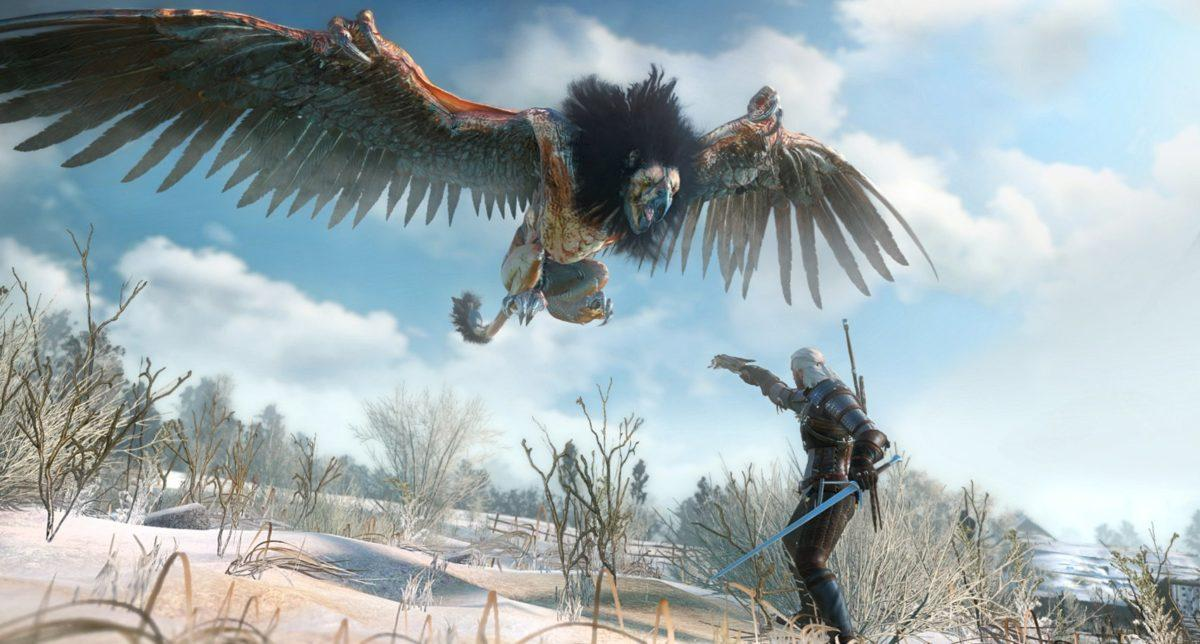
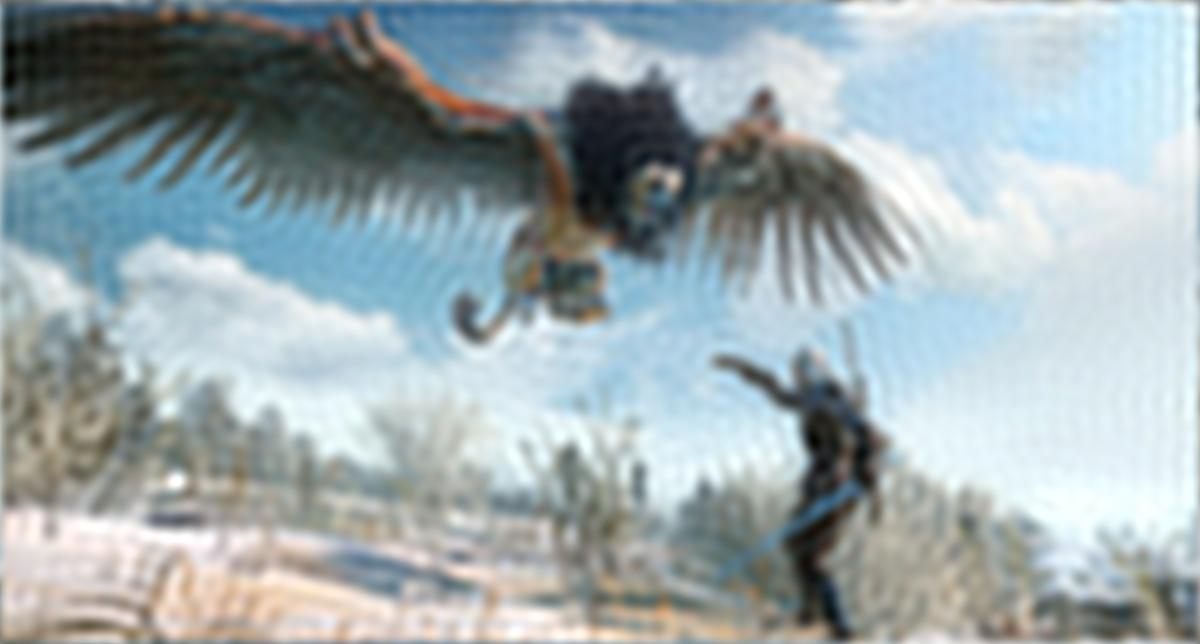
wiener filtration

diff --git a/main.py b/main.py
@@ -1,5 +1,6 @@
 import numpy as np
 from PIL import Image
+import matplotlib.pyplot as plt
 
 
 def main():
@@ -16,8 +17,11 @@ def main():
     green = np.array(green)
     blue = np.array(blue)
 
-    # Params of distortion
+    # Param of distortion
     distortion = kernel(15, 5)
+
+    # Param of noise
+    threshold = 1e-10
 
     # Get a blurry image
     noisy_img_r = blur_image(red, distortion)
@@ -27,13 +31,33 @@ def main():
     noisy_image.save('Pictures/blur.jpg')
 
     # Inverse Filtration
-    restored_img_r = inverse_filtering(noisy_img_r, distortion)
-    restored_img_g = inverse_filtering(noisy_img_g, distortion)
-    restored_img_b = inverse_filtering(noisy_img_b, distortion)
-    restored_img = reformation_image(restored_img_r, restored_img_g, restored_img_b, distortion)
-    restored_img.save('Pictures/inverseFiltration.jpg')
+    # Use inverse filter for each channel and connect them
+    restored_img_r_if = inverse_filtering(noisy_img_r, distortion, threshold=threshold)
+    restored_img_g_if = inverse_filtering(noisy_img_g, distortion, threshold=threshold)
+    restored_img_b_if = inverse_filtering(noisy_img_b, distortion, threshold=threshold)
+    restored_img_if = reformation_image(restored_img_r_if, restored_img_g_if,
+                                        restored_img_b_if, distortion)
+    restored_img_if.save('Pictures/inverseFiltration.jpg')
 
-    tile(noisy_image, restored_img, img).show()
+    inv_filtration_composition = [noisy_image, restored_img_if, img]
+    description_if = ["Blur", "Inverse filtration", "original"]
+
+    draw(inv_filtration_composition, description_if)
+
+    # Wiener Filtration
+    # Use wiener filter for each channel and connect them
+    wiener_k = 0.00006  # const in wiener expression
+    restored_img_r_wiener = wiener_filtration(noisy_img_r, distortion, wiener_k)
+    restored_img_g_wiener = wiener_filtration(noisy_img_g, distortion, wiener_k)
+    restored_img_b_wiener = wiener_filtration(noisy_img_b, distortion, wiener_k)
+    restored_img_wiener = reformation_image(restored_img_r_wiener, restored_img_g_wiener,
+                                            restored_img_b_wiener, distortion)
+
+    wiener_filtration_composition = [noisy_image, restored_img_wiener, img]
+    description_wiener = ["Blur", "Wiener filtration", "original"]
+
+    draw(wiener_filtration_composition, description_wiener)
+
 
 # Kernel nucleus
 def kernel(size, sigma):
@@ -106,6 +130,14 @@ def reformation_image(r, g, b, distortion):
     return blurry
 
 
+def wiener_filtration(blur_image, distor_func, K):
+    G = np.fft.fft2(blur_image)  # FI of blurred img
+    H = get_H(distor_func, blur_image.shape)  # H - func of distortion (FI)
+    F = np.conj(H) / (np.abs(H) ** 2 + K) * G  # F - func of orig img (FI)
+    restored = np.abs(np.fft.ifft2(F))  # orig img
+    return restored
+
+
 def tile(*images, vertical=False):
     width, height = images[0].width, images[0].height
     tiled_size = (
@@ -123,6 +155,19 @@ def tile(*images, vertical=False):
             row += width
 
     return tiled_img
+
+
+def draw(image, description):
+    fig, ax = plt.subplots(1, len(image))
+
+    for i in range(len(image)):
+        ax[i].imshow(image[i])
+        ax[i].set_title(description[i])
+
+    fig.set_figwidth(10)
+    fig.set_figheight(10)
+
+    plt.show()
 
 
 if __name__ == '__main__':
